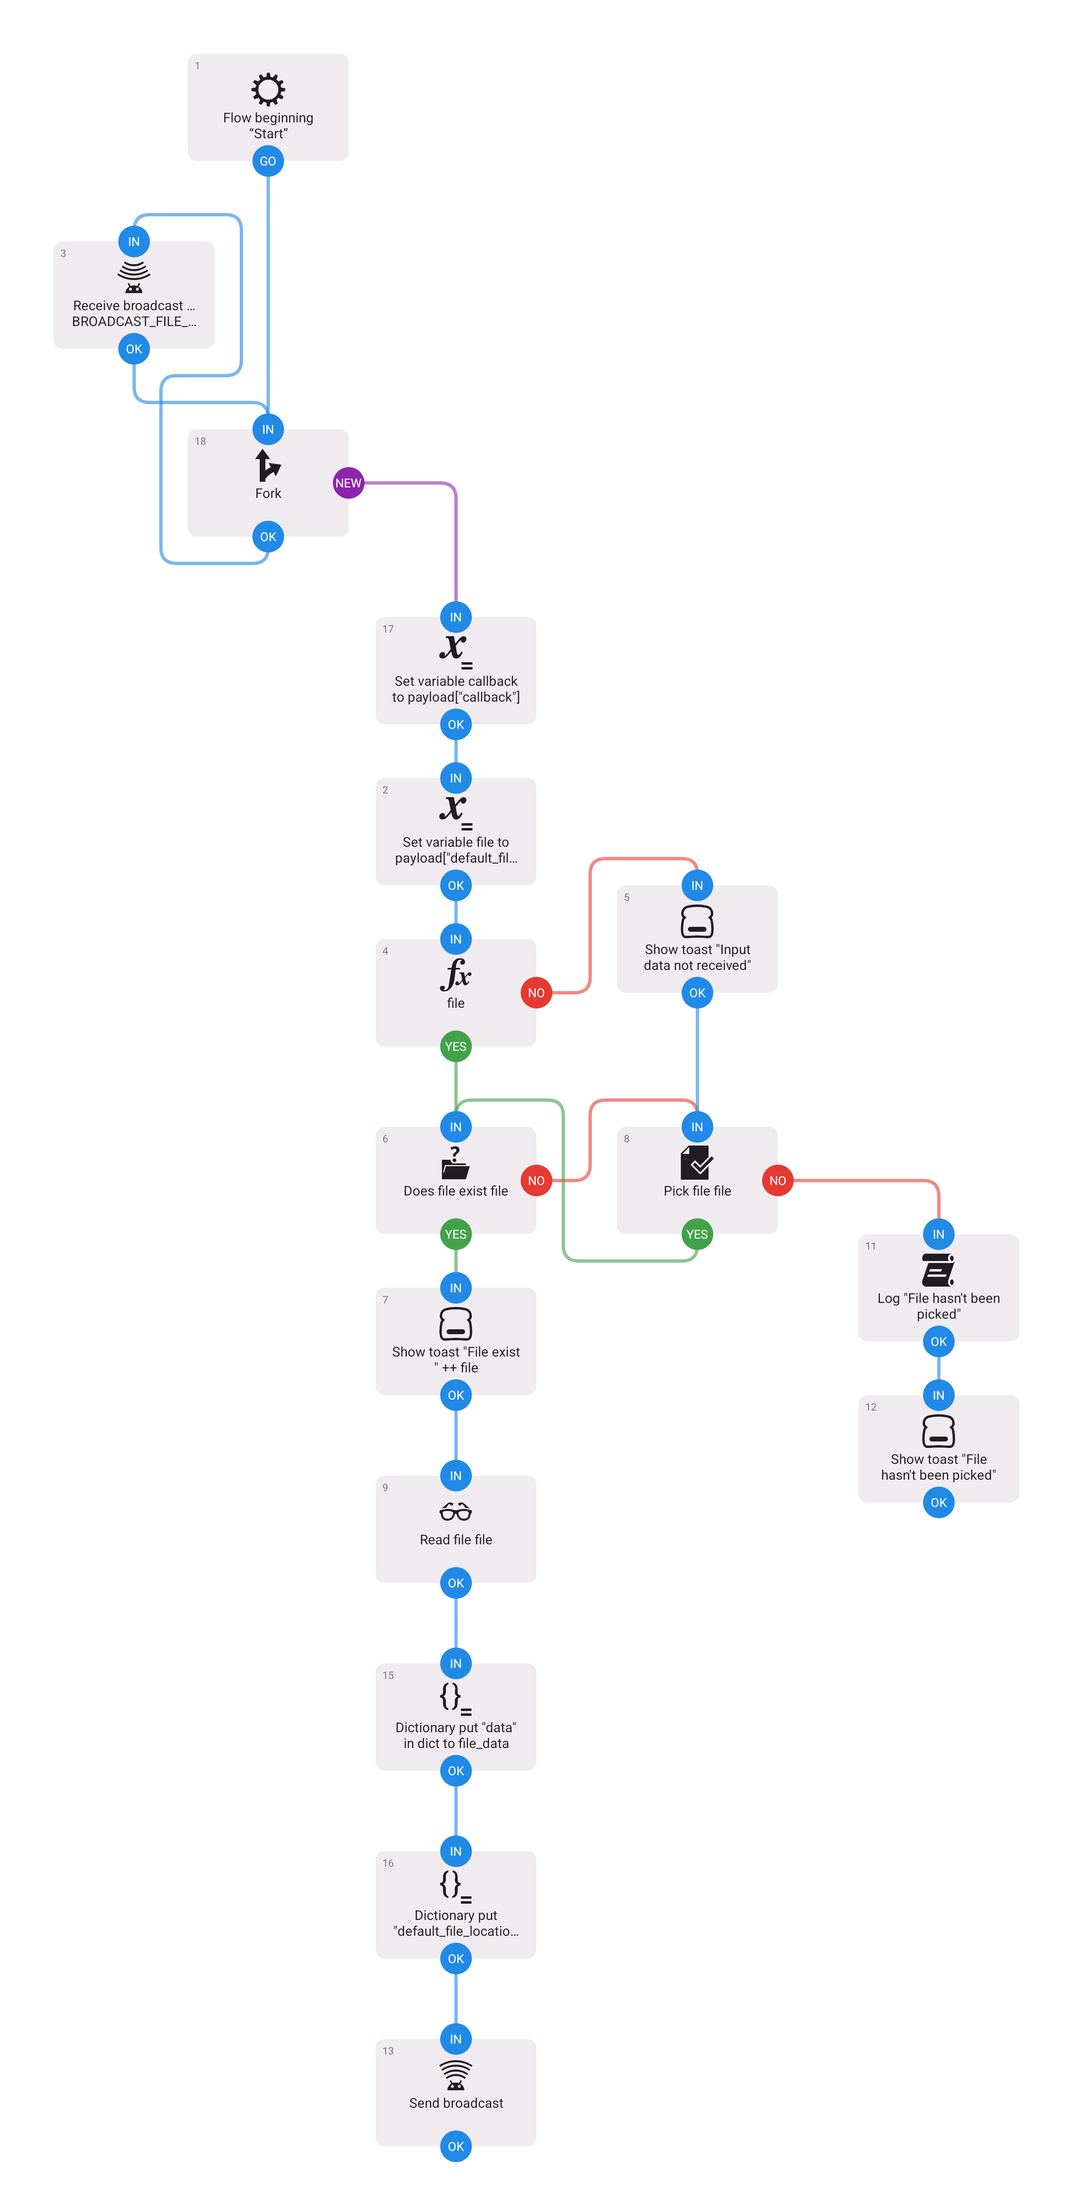
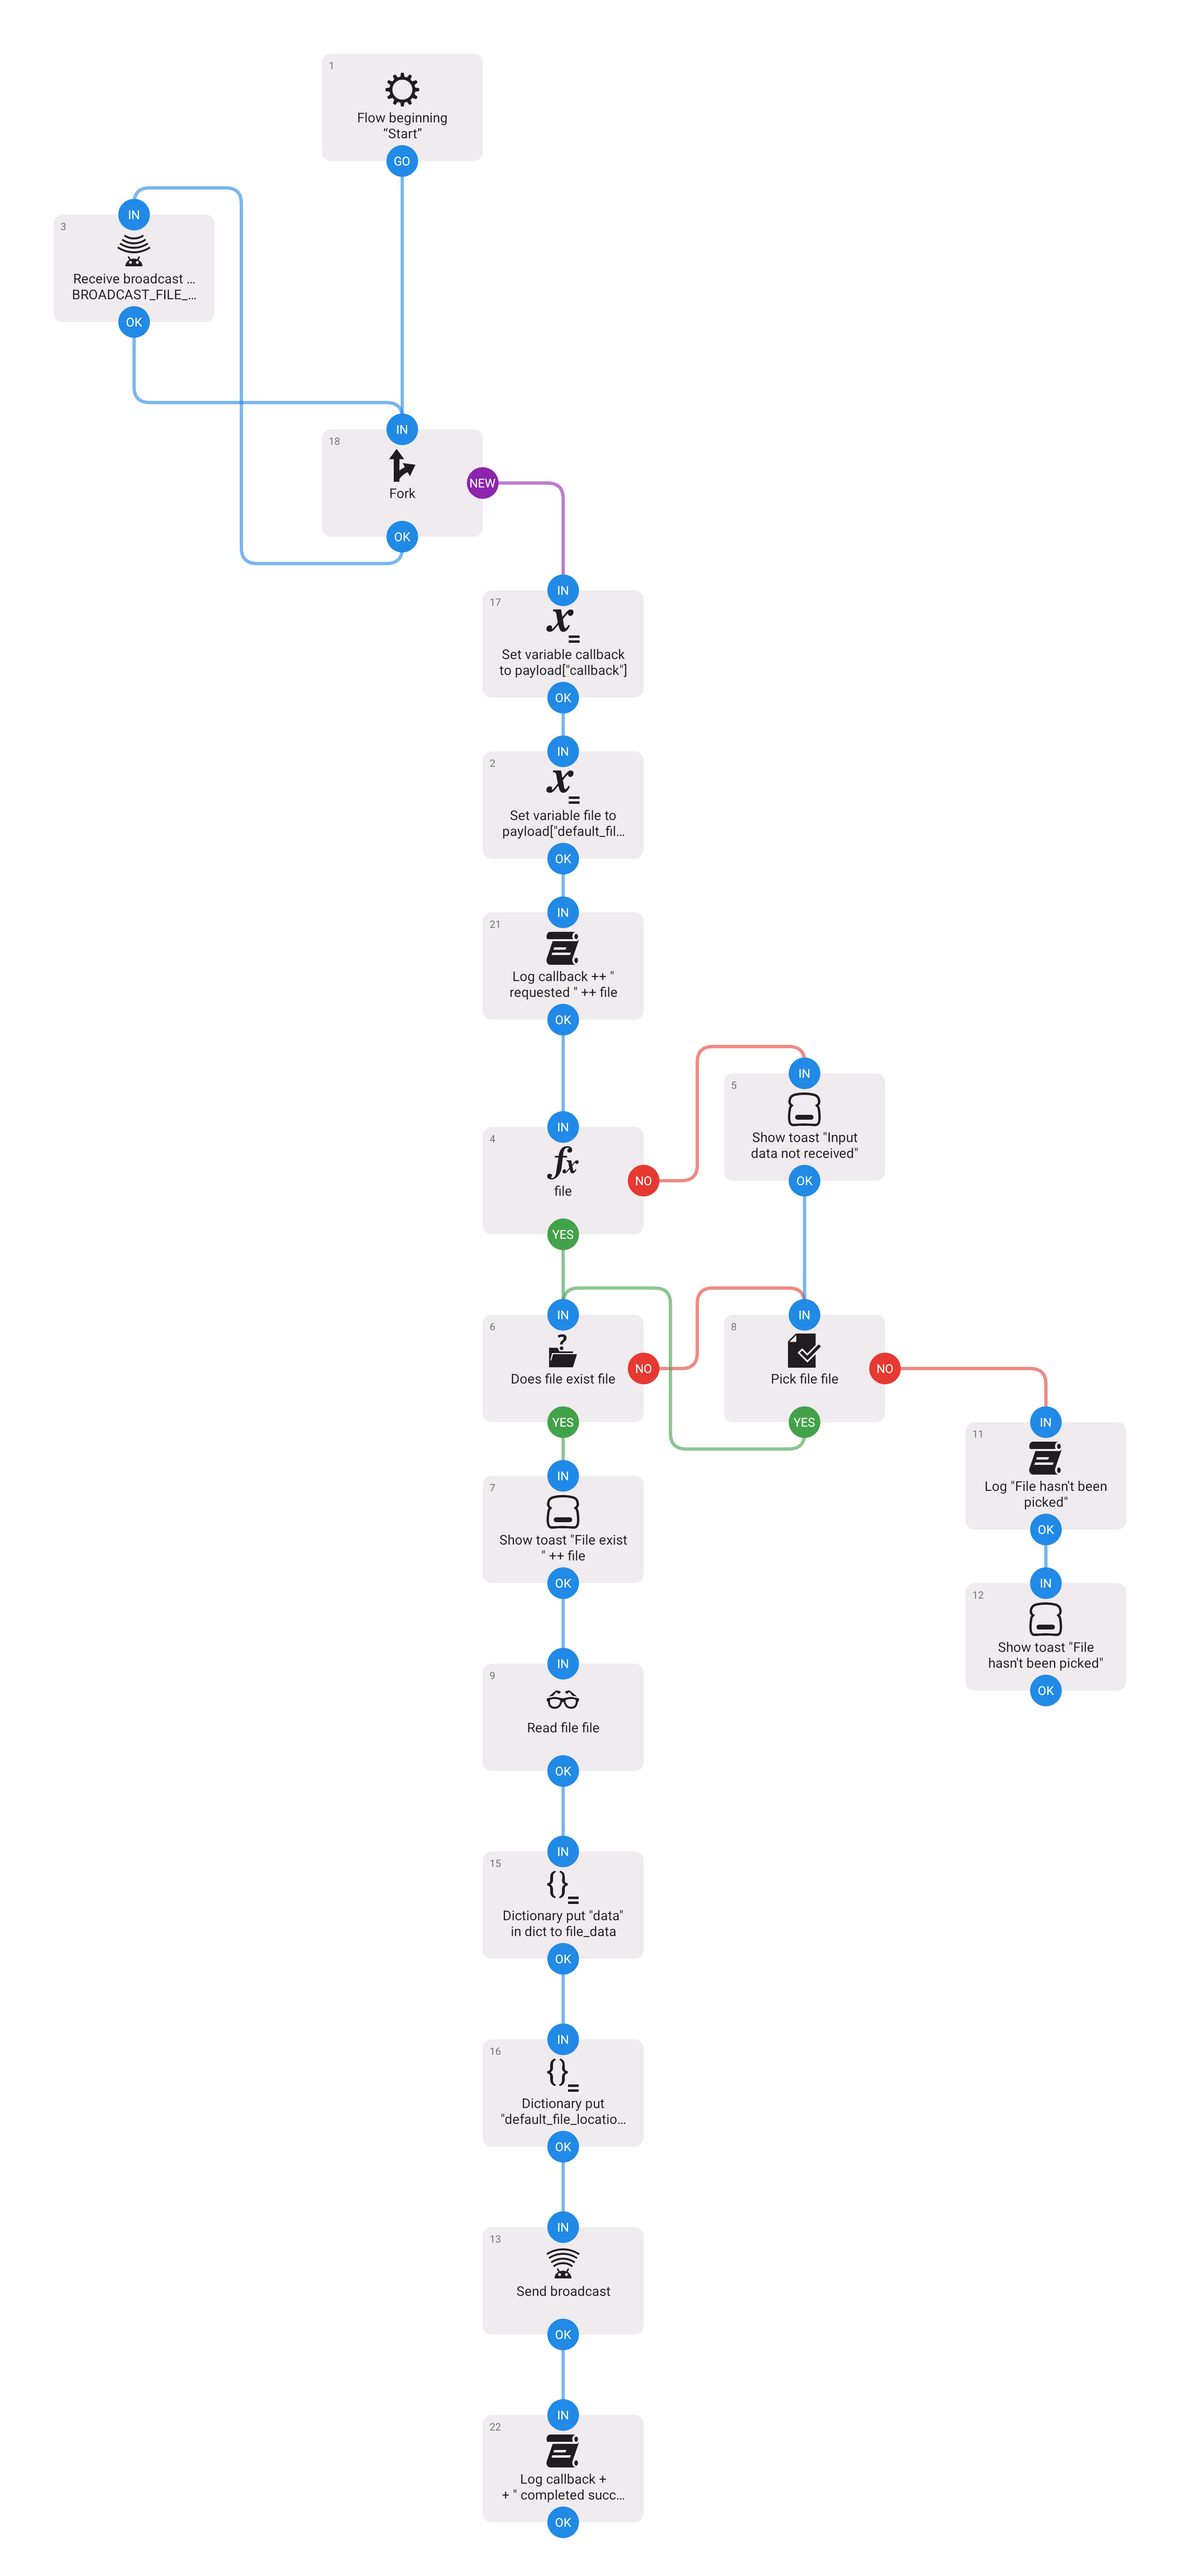
refactor: added logging

diff --git a/flows/File picker.md b/flows/File picker.md
@@ -1,6 +1,6 @@
 # Description
 
-[ver.82]
+[ver.90]
 
 Pick default file or any other and send content via broadcast event. Works with any file.
 
